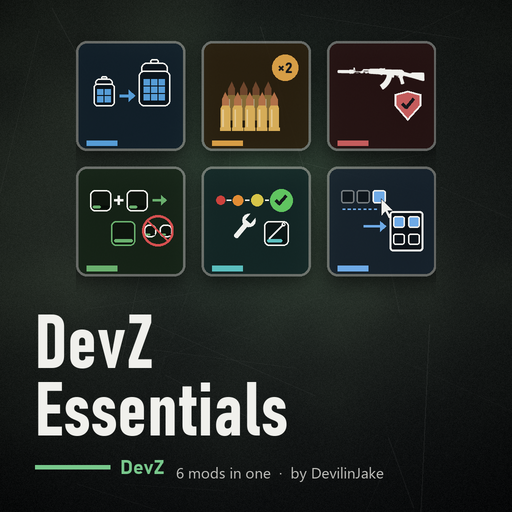
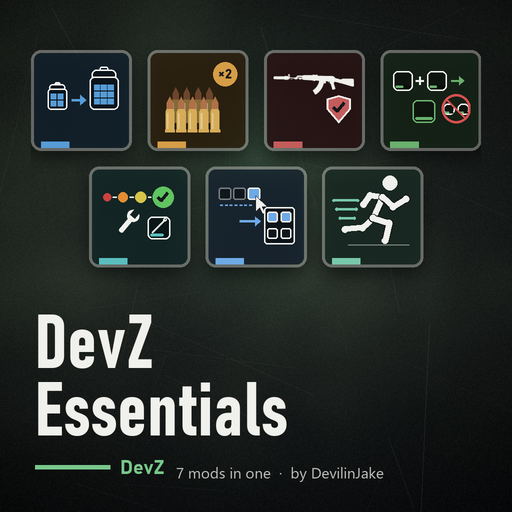
Essentials: add Auto Run (7 mods), new card with 7 tiles
- pack.txt, mod.cpp, README and Workshop description list Auto Run
- Description notes the plastic bottle suppressor lasts 3.3x
- make_workshop.py: Essentials table updated, and Weapon Durability's
  suppressor line keeps the 3.3x exception when regenerated
- workshop_preview.py: bundles of 7-8 mods lay out 4 tiles across

Changed region(s): [[0.0625, 0.0625, 0.9375, 0.5625], [0.3438, 0.9062, 0.375, 0.9375]]

diff --git a/tools/make_workshop.py b/tools/make_workshop.py
@@ -49,7 +49,7 @@ MODS = {
         ],
         [
             "Weapons last 10x as long.",
-            "Suppressors and other muzzle attachments last 10x as long.",
+            "Suppressors and other muzzle attachments last 10x as long. Exception: the plastic bottle (improvised) suppressor lasts 3.3x, so it stays a stopgap.",
         ],
     ),
     "CombineNoSplit": (
@@ -239,14 +239,15 @@ PICTOGRAMS = {
 PACKS = {
     "Essentials": (
         "DevZ\nEssentials", (120, 200, 140),
-        "Six DevZ mods in one download: bigger inventories, bigger ammo stacks, longer-lasting guns, kits that combine, repairs back to Pristine, and quick looting with one key.",
+        "Seven DevZ mods in one download: bigger inventories, bigger ammo stacks, longer-lasting guns, kits that combine, repairs back to Pristine, quick looting with one key, and auto run.",
         {
             "InventorySizes": "more room in clothing, backpacks, vests and pouches",
             "AmmoStacks": "loose ammo stacks twice as big",
-            "WeaponDurability": "weapons and suppressors last 10x as long",
+            "WeaponDurability": "weapons and suppressors last 10x as long (the plastic bottle suppressor 3.3x)",
             "CombineNoSplit": "combine part-used bandages, repair kits and filters, but never split them",
             "RepairToPristine": "repair kits repair items all the way to Pristine instead of stopping at Worn",
             "QuickTransfer": "hold Left Alt and sweep the mouse over items to move them between you and the nearest open container",
+            "AutoRun": "press Z and your character keeps moving forward at the speed you had (walk, jog or sprint); W, A, S, D or Z stops it",
         },
     ),
 }

diff --git a/tools/workshop_preview.py b/tools/workshop_preview.py
@@ -509,9 +509,9 @@ class Pict:
 
     def tiles(self, items):
         """A bundle: one small card-like tile per mod, each with that mod's own pictogram and
-        accent colour. items: list of (pictogram name, accent). Laid out 3 across, then the rest
-        on a second row, centred."""
-        per_row, gap = 3, 4.5
+        accent colour. items: list of (pictogram name, accent). Up to 6 are laid out 3 across;
+        7 or 8 go 4 across, so two rows still hold them. A short last row is centred."""
+        per_row, gap = (3, 4.5) if len(items) <= 6 else (4, 3.5)
         rows = [items[i:i + per_row] for i in range(0, len(items), per_row)]
         tile = (100 - gap * (per_row - 1)) / per_row
         pad = tile * 0.10
@@ -581,7 +581,7 @@ def card(title, accent, pict, seed, path, footer="by DevilinJake"):
     if pict == "crash":
         psize = 720                                                 # two crashes side by side, with a gap
     if bundle:
-        psize = 720                                                 # a grid of tiles, wider than one pictogram
+        psize = 720 if len(pict) <= 6 else 900                      # a grid of tiles, wider than one pictogram
     if pict == "codelock":
         psize = 560                                                 # a tall door: a little bigger, still clear of the title
     p = pictogram(pict, psize, WHITE, accent)

diff --git a/Essentials/mod.cpp b/Essentials/mod.cpp
@@ -1,5 +1,5 @@
 name = "DevZ Essentials";
 author = "DevilinJake";
-tooltip = "Inventory Sizes, Ammo Stacks, Weapon & Suppressor Durability, Combine Kits, Repair To Pristine and Quick Transfer";
-overview = "Six DevZ mods in one download: bigger inventories, bigger ammo stacks, longer-lasting guns, kits that combine, repairs back to Pristine, and quick looting with one key. See the README on GitHub.";
+tooltip = "Inventory Sizes, Ammo Stacks, Weapon & Suppressor Durability, Combine Kits, Repair To Pristine, Quick Transfer and Auto Run";
+overview = "Seven DevZ mods in one download: bigger inventories, bigger ammo stacks, longer-lasting guns, kits that combine, repairs back to Pristine, quick looting with one key, and auto run. See the README on GitHub.";
 action = "https://github.com/DevilinJake/DevZ-Mods/tree/main/Essentials";

diff --git a/Essentials/README.md b/Essentials/README.md
@@ -1,16 +1,17 @@
 # DevZ Essentials
 
-Six DevZ client mods in one download, for servers that want all of them and fewer entries in
+Seven DevZ client mods in one download, for servers that want all of them and fewer entries in
 the launcher:
 
 | Mod | What it does |
 |---|---|
 | [Inventory Sizes](../InventorySizes) | More room in clothing, backpacks, vests and pouches |
 | [Ammo Stacks](../AmmoStacks) | Loose ammo stacks twice as big |
-| [Weapon & Suppressor Durability](../WeaponDurability) | Weapons and suppressors last 10× as long |
+| [Weapon & Suppressor Durability](../WeaponDurability) | Weapons and suppressors last 10× as long (the plastic bottle suppressor 3.3×) |
 | [Combine Kits](../CombineNoSplit) | Combine part-used bandages, repair kits and filters, but never split them |
 | [Repair To Pristine](../RepairToPristine) | Repair kits repair items all the way to Pristine |
 | [Quick Transfer](../QuickTransfer) | Hold Left Alt and sweep the mouse over items to move them between you and the nearest open container |
+| [Auto Run](../AutoRun) | Press Z and your character keeps moving forward at the speed you had |
 
 It's the same files as the single mods, with the same default settings: each mod's README
 explains them. **Load either the bundle or the single mods, never both.**
@@ -20,6 +21,8 @@ explains them. **Load either the bundle or the single mods, never both.**
 1. Add `@DevZ_Essentials` to `-mod=` and copy its `keys\DevZ.bikey` into your server's `keys\`.
 2. Ammo Stacks: run `fix_loot.py` once so loot stays the same size (see
    [AmmoStacks](../AmmoStacks#why-loot-needs-fixing)).
+3. Running DayZ Expansion? It has its own auto-run on Z: set `EnableAutoRun` to `0` in
+   Expansion's `GeneralSettings.json` (see [AutoRun](../AutoRun#the-key)).
 
 ## Your own settings
 
